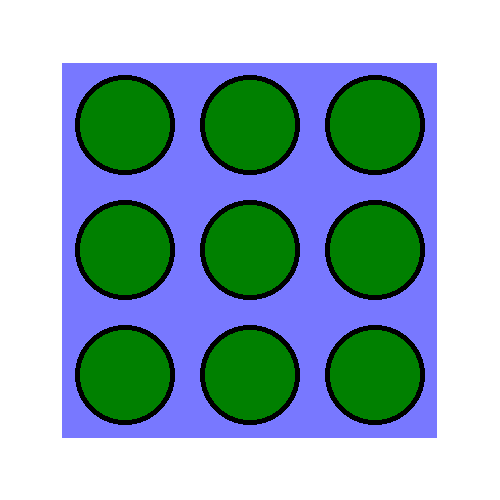
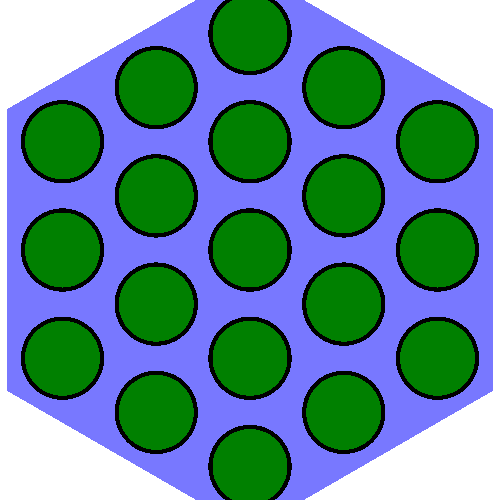
hexagonal lattice testing

diff --git a/utils/geometry.py b/utils/geometry.py
@@ -1,3 +1,5 @@
+from math import sqrt
+
 import openmc
 import numpy as np
 
@@ -6,17 +8,21 @@ from .material import fuel_mat, cladding_mat, water_mat
 # Surfaces
 fuel_surf = openmc.ZCylinder(r=9)
 cladding_surf = openmc.ZCylinder(r=10)
-water_surf = openmc.rectangular_prism(width=25, height=25, boundary_type='vacuum')
+water_surf = openmc.hexagonal_prism(edge_length=15, orientation='x', boundary_type='vacuum')
 
 top_surf = openmc.ZPlane(z0=3500 / 2)
 bottom_surf = openmc.ZPlane(z0=-3500 / 2)
 
 lat_surf = openmc.rectangular_prism(width=75, height=75, boundary_type='vacuum')
+hex_lat_surf = openmc.hexagonal_prism(edge_length=15*sqrt(3)*5/2+2.5, boundary_type='vacuum')
 
 top_surf.boundary_type = 'vacuum'
 bottom_surf.boundary_type = 'vacuum'
 
 # Geometry
+container_cell = openmc.Cell(fill=water_mat, region=hex_lat_surf & -top_surf & +bottom_surf)
+container_universe = openmc.Universe(cells=[container_cell])
+
 # 1. tvel in water
 fuel_cell = openmc.Cell(fill=fuel_mat, region=-fuel_surf & +bottom_surf & -top_surf)
 cladding_cell = openmc.Cell(fill=cladding_mat, region=+fuel_surf & -cladding_surf & +bottom_surf & -top_surf)
@@ -31,8 +37,23 @@ lat.lower_left = (-25 * 3 / 2, -25 * 3 / 2)
 lat.pitch = (25, 25)
 lat.universes = np.tile(sub_universe, (3, 3))
 
-lat_cell = openmc.Cell(region=lat_surf, fill=lat)
-outside_cell = openmc.Cell(region=lat_surf & +top_surf & -bottom_surf)
-universe = openmc.Universe(cells=[lat_cell, outside_cell])
+lat.outer = container_universe
+
+hex_lat = openmc.HexLattice()
+hex_lat.center = (0,0)
+hex_lat.pitch = [15*sqrt(3)]
+
+lat_center = [sub_universe]
+lat_ring_1 = [sub_universe]*6
+lat_ring_2 = [sub_universe]*12
+
+hex_lat.universes = [lat_ring_2, lat_ring_1, lat_center]
+hex_lat.outer = container_universe
+
+lat_cell = openmc.Cell(region=hex_lat_surf, fill=hex_lat)
+
+universe = openmc.Universe(cells=[lat_cell])
+
+#full_lat_cell = openmc.Cell()
 # for i in range(6):
 #  print(f"i = {i} - {universe.find((i*3,0,0))}\n\n")

diff --git a/main.py b/main.py
@@ -17,20 +17,21 @@ if __name__ == "__main__":
     # Plotting by universe...
     colors = {water_mat: (120, 120, 255), cladding_mat: 'black', fuel_mat: 'green'}
     color_data = dict(color_by='material', colors=colors)
+    width = (120,120)
 
     fig, ax = plt.subplots(2, 2)
 
-    universe.plot(width=(100, 100), pixels=(250, 250), basis='xz', **color_data, origin=(0, 0, 3500 / 2 - 10), axes=ax[0][0])
-    universe.plot(width=(100, 100), pixels=(250, 250), basis='xz', **color_data, origin=(0, 0, 0), axes=ax[1][1])
-    universe.plot(width=(100, 100), pixels=(250, 250), basis='xz', **color_data, origin=(0, 0, -3500 / 2 + 10), axes=ax[0][1])
-    universe.plot(width=(100, 100), pixels=(250, 250), basis='xy', **color_data, origin=(0, 0, 0), axes=ax[1][0])
+    universe.plot(width=width, pixels=(250, 250), basis='xz', **color_data, origin=(0, 0, 3500 / 2 - 10), axes=ax[0][0])
+    universe.plot(width=width, pixels=(250, 250), basis='xz', **color_data, origin=(0, 0, 0), axes=ax[1][1])
+    universe.plot(width=width, pixels=(250, 250), basis='xz', **color_data, origin=(0, 0, -3500 / 2 + 10), axes=ax[0][1])
+    universe.plot(width=width, pixels=(250, 250), basis='xy', **color_data, origin=(0, 0, 0), axes=ax[1][0])
     plt.savefig('plots/geometry.jpg')
 
     # ...and by openmc.Plots
     plots = [openmc.Plot(), openmc.Plot(), openmc.Plot(), openmc.Plot(), ]
     for i in range(4):
         # plots[i].id=(i+1)*111
-        plots[i].width = (100, 100)
+        plots[i].width = width
         plots[i].pixels = (500, 500)
         plots[i].basis = 'xz'
         plots[i].color_by = 'material'
